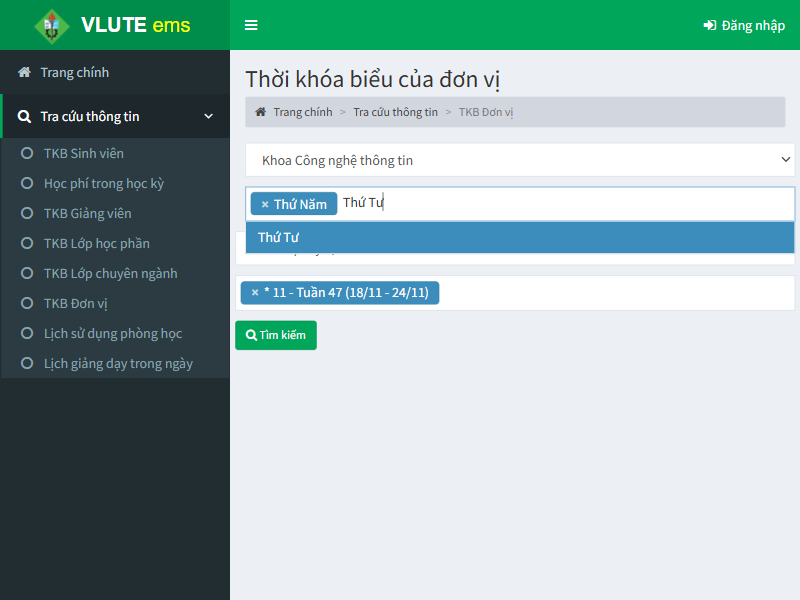
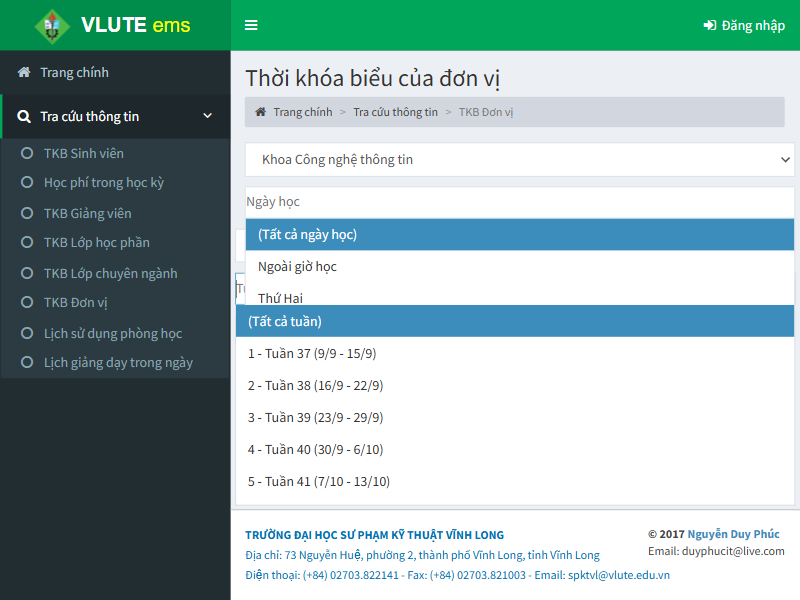
fixCrawler

diff --git a/backend/src/services/crawlerService.js b/backend/src/services/crawlerService.js
@@ -1,14 +1,13 @@
-
 const getBrowserInstance = require("../config/puppeteer");
 
-async function crawlTimetable(khoaName, hocKyName, thu, tuanList) {
+async function crawlTimetable(khoaName, hocKyName) {
   const browser = await getBrowserInstance();
   const page = await browser.newPage();
 
   try {
     // URL of the timetable page
-    const url = 'https://ems.vlute.edu.vn/vTKBDonVi'; // Replace with the actual URL
-    await page.goto(url, { waitUntil: 'networkidle2' });
+    const url = "https://ems.vlute.edu.vn/vTKBDonVi"; // Replace with the actual URL
+    await page.goto(url, { waitUntil: "networkidle2" });
 
     // Map khoa and hocKy names to dropdown values
     const khoaMap = {
@@ -26,49 +25,42 @@ async function crawlTimetable(khoaName, hocKyName, thu, tuanList) {
     const hocKyValue = hocKyMap[hocKyName];
 
     // Select "Khoa"
-    await page.select('select#lstDV', khoaValue);
+    await page.select("select#lstDV", khoaValue);
 
     // Select "Học Kỳ"
-    await page.select('select#hocky', hocKyValue);
+    await page.select("select#hocky", hocKyValue);
     console.log("Selected Khoa:", khoaValue);
     console.log("Selected Hoc Ky:", hocKyValue);
 
-    // Select "Thứ"
-    await page.click('ul.select2-selection__rendered'); // Open the dropdown
-    await page.waitForSelector('input.select2-search__field'); // Wait for the search field
-    await page.type('input.select2-search__field', thu); // Type the desired "Thứ"
-
-    // Wait for options to load and click the matching item
-    await page.waitForSelector('ul.select2-results__options');
-    await page.evaluate((thuText) => {
-      const items = Array.from(document.querySelectorAll('ul.select2-results__options li'));
-      const targetItem = items.find((item) => item.innerText.includes(thuText));
-      if (targetItem) targetItem.click(); // Click the matching option
-    }, thu);
-
+    // ===================================================
     // Select "Tuần học" (Multiple Selection)
-    await page.click('span.select2-selection'); // Open the multi-select dropdown
-    await page.waitForSelector('ul.select2-selection__rendered li.select2-selection__choice'); // Wait for options to appear
+    // delete default option
+    await page.evaluate(() => {
+      // Tìm tất cả các nút "×" trong multi-select
+      const removeButtons = document.querySelectorAll(
+        ".select2-selection__choice__remove"
+      );
+      if (removeButtons.length > 0) {
+        removeButtons[0].click(); // Click vào phần tử
+        removeButtons[1].click();
+      }
+    });
+    await page.screenshot({ path: "error-screenshot.png" });
 
-    for (const tuan of tuanList) {
-      await page.evaluate((tuanText) => {
-        const items = Array.from(document.querySelectorAll('ul.select2-results__options li'));
-        const targetItem = items.find((item) => item.innerText.includes(tuanText));
-        if (targetItem) targetItem.click(); // Click the matching item
-      }, tuan);
-    }
+    await page.click("span.select2-selection"); // Open the multi-select dropdown
 
     // Click the search button
-    await page.click('button#btnSearch');
-    await page.waitForSelector('div#tab_12 table tr'); // Wait for the table to appear
+    await page.click("button#btnSearch");
+    await page.waitForSelector("div#tab_12 table tr"); // Wait for the table to appear
 
     // Scrape table data
     const data = await page.evaluate(() => {
-      const rows = document.querySelectorAll('div#tab_12 table tr');
+      const rows = document.querySelectorAll("div#tab_12 table tr");
       const result = [];
       rows.forEach((row, index) => {
-        if (index > 0) { // Skip the header row
-          const cols = row.querySelectorAll('td');
+        if (index > 0) {
+          // Skip the header row
+          const cols = row.querySelectorAll("td");
           const rowData = Array.from(cols).map((col) => col.innerText.trim());
           result.push(rowData);
         }
@@ -78,10 +70,10 @@ async function crawlTimetable(khoaName, hocKyName, thu, tuanList) {
 
     return data; // Return the scraped data
   } catch (err) {
-    console.error('Error crawling timetable:', err);
+    console.error("Error crawling timetable:", err);
 
     // Take a screenshot for debugging
-    await page.screenshot({ path: 'error-screenshot.png' });
+    await page.screenshot({ path: "error-screenshot.png" });
     throw err;
   } finally {
     await browser.close();

diff --git a/backend/src/controllers/crawlerController.js b/backend/src/controllers/crawlerController.js
@@ -1,13 +1,13 @@
-const { crawlTimetable } = require('../services/crawlerService'); // Đường dẫn tới service
+const { crawlTimetable } = require("../services/crawlerService"); // Đường dẫn tới service
 
 // Controller để crawl dữ liệu thời khóa biểu
 const getTimetable = async (req, res) => {
   try {
     // Lấy các tham số từ request body
-    const { khoaName, hocKyName, thu, tuanList } = req.body;
+    const { khoaName, hocKyName } = req.body;
 
     // Gọi service để crawl dữ liệu
-    const timetableData = await crawlTimetable(khoaName, hocKyName, thu, tuanList);
+    const timetableData = await crawlTimetable(khoaName, hocKyName);
 
     // Trả kết quả về client
     res.status(200).json({
@@ -15,10 +15,10 @@ const getTimetable = async (req, res) => {
       data: timetableData,
     });
   } catch (error) {
-    console.error('Error in getTimetable controller:', error);
+    console.error("Error in getTimetable controller:", error);
     res.status(500).json({
       success: false,
-      message: 'Failed to crawl timetable data.',
+      message: "Failed to crawl timetable data.",
       error: error.message,
     });
   }
